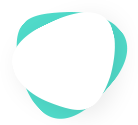
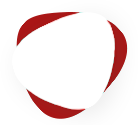
color changes

Changed region(s): [[0.7536, 0.168, 0.9275, 0.744], [0.1159, 0.096, 0.5797, 0.384], [0.1739, 0.696, 0.6377, 0.96]]

diff --git a/index.html b/index.html
@@ -212,10 +212,10 @@
         color: #ffffff;
       }
       #iguru_infobox_6041219c5987f .infobox_icon {
-        color: #00bda6;
+        color: #be1e2d;
       }
       #iguru_infobox_6041219c5987f .infobox_wrapper:hover .infobox_icon {
-        color: #ff6d34;
+        color: #be1e2d;
       }
       #iguru_infobox_6041219c5987f .infobox_button {
         color: #ffffff;
@@ -254,10 +254,10 @@
         color: #ffffff;
       }
       #iguru_infobox_6041219c66251 .infobox_icon {
-        color: #00bda6;
+        color: #be1e2d;
       }
       #iguru_infobox_6041219c66251 .infobox_wrapper:hover .infobox_icon {
-        color: #ff6d34;
+        color: #be1e2d;
       }
       #iguru_infobox_6041219c66251 .infobox_button {
         color: #ffffff;
@@ -1350,7 +1350,7 @@
       ul.wp-block-categories.wp-block-categories-list li a:hover,
       ul.wp-block-categories.wp-block-categories-list li a:hover + .post_count,
       ul.wp-block-latest-posts li a:hover {
-        color: #00bda6;
+        color: #be1e2d;
       }
       #learn-press-course-curriculum.course-curriculum
         ul.curriculum-sections
@@ -1567,7 +1567,7 @@
         .curriculum-sections
         .section-content
         .course-item:before {
-        background-color: #00bda6;
+        background-color: #be1e2d;
       }
       .wgl-theme-header .log-in.learnpress .log-link:hover,
       .wgl-theme-header
@@ -1751,7 +1751,7 @@
       .widget.iguru_widget.iguru_banner-widget
         .banner-widget_button.button-read-more,
       .content-item-summary .quiz-result .result-grade .result-achieved {
-        border-color: #00bda6;
+        border-color: #be1e2d;
       }
       .theme_color_shadow {
         box-shadow: 5px 6px 25px 0px rgba(0, 189, 166, 0.08);
@@ -2411,7 +2411,7 @@
         margin-top: -40px !important;
       }
       .vc_custom_1569853136373 {
-        background-color: #00bda6 !important;
+        background-color: #be1e2d !important;
       }
       .vc_custom_1569856727231 {
         background-color: #ff6d34 !important;
@@ -2441,7 +2441,7 @@
       .vc_custom_1569929330325 {
         margin-top: -115px !important;
         padding-top: 40px !important;
-        background-color: #ff6d34 !important;
+        background-color: #d1d2d3 !important;
         border-radius: 10px !important;
       }
       .vc_custom_1571735404807 {
@@ -2746,7 +2746,8 @@
                       <a href="./index.html">
                         <img
                           class="default_logo"
-                          src="./wp-content/uploads/2019/10/Dark-Logo.svg"
+                          width = 35%;
+                          src="./wp-content/uploads/2019/10/Dark-Logo.png"
                           alt=""
                         />
                       </a>
@@ -2856,7 +2857,7 @@
                       <a href="./index.html">
                         <img
                           class="default_logo"
-                          src="./wp-content/uploads/2019/10/Logo.svg"
+                          src="./wp-content/uploads/2019/10/Logo.png"
                           alt=""
                         />
                       </a>
@@ -2944,7 +2945,7 @@
                             data-anim="ei:d;eo:d;s:290;r:0;t:fade;sl:d;"
                           >
                             <img
-                              src="./wp-content/uploads/2019/10/HeroImg v2.jpg"
+                              src="./wp-content/uploads/2019/10/home_slider_bg-1536x728.jpg"
                               title="home_slider_bg"
                               width="1920"
                               height="910"
@@ -3090,7 +3091,7 @@
                               data-frame_1="x:0,0px,0px,0px;y:0,0px,0px,0px;st:550;sp:1000;sR:550;"
                               data-frame_999="o:0;tp:600;st:w;sR:7450;"
                               style="z-index: 16; font-family: Muli;"
-                              >Let's Do <span style="color: #FF6D34;">IT</span> Free Prep BootCamp </rs-layer>
+                              >Let's Do <span style="color: #be1e2d;">IT</span> Free Prep BootCamp </rs-layer>
 							<!--
 
 							--><rs-layer
@@ -3113,7 +3114,7 @@
 
                               
 							-->
-              <a href="./pdf/BlankslateSummery.pdf" target="_blank">
+              <a href="./pages/registration.html">
               <rs-layer
                               id="slider-1-slide-1-layer-13"
                               class="rev-btn"
@@ -3123,14 +3124,14 @@
                               data-xy="xo:15px;y:t,m,m,m;yo:624px,157px,180px,131px;"
                               data-text="s:16,18,18,18;l:17;fw:700;a:inherit;"
                               data-padding="t:18,20,20,20;r:29,33,33,33;b:17,19,19,19;l:29,33,33,33;"
-                              data-border="bos:solid;boc:#00bda6;bow:2,2,2,2;bor:5px,5px,5px,5px;"
+                              data-border="bos:solid;boc:#be1e2d;bow:2,2,2,2;bor:5px,5px,5px,5px;"
                               data-frame_0="tp:600;"
                               data-frame_1="tp:600;st:1550;sp:1100;sR:1550;"
                               data-frame_999="o:0;tp:600;st:w;sR:6350;"
-                              data-frame_hover="bgc:rgba(255,255,255,0);boc:#00bda6;bor:5px,5px,5px,5px;bos:solid;bow:2,2,2,2;oX:50;oY:50;"
+                              data-frame_hover="bgc:rgba(255,255,255,0);boc:#be1e2d;bor:5px,5px,5px,5px;bos:solid;bow:2,2,2,2;oX:50;oY:50;"
                               style="
                                 z-index: 18;
-                                background-color: #00bda6;
+                                background-color: #be1e2d;
                                 font-family: Muli;
                                 cursor: pointer;
                                 outline: none;
@@ -3140,7 +3141,7 @@
                                 -moz-box-sizing: border-box;
                                 -webkit-box-sizing: border-box;
                               "
-                              >  View Courses </rs-layer
+                              >  Register Now </rs-layer
                             ></a>
                             <!--
 
@@ -3249,7 +3250,7 @@
                               data-frame_0="y:-50,-42,-31,-19;"
                               data-frame_1="st:50;sp:1100;sR:50;"
                               data-frame_999="o:0;st:w;sR:7850;"
-                              style="z-index: 13; background-color: #ff6d34"
+                              style="z-index: 13; background-color: #be1e2d"
                             >
                             </rs-layer
                             ><!--
@@ -3265,7 +3266,7 @@
                               data-frame_0="y:50,42,31,19;"
                               data-frame_1="st:550;sp:1000;sR:550;"
                               data-frame_999="o:0;st:w;sR:7450;"
-                              style="z-index: 15; background-color: #ff6d34; left: 20px !important;"
+                              style="z-index: 15; background-color: #be1e2d; left: 20px !important;"
                             >
                             </rs-layer
                             ><!--
@@ -3505,9 +3506,9 @@
                                     style="
                                       display: inline-block;
                                       line-height: 1.25;
-                                      color: #ffffff;
+                                      color: #000;
                                       margin: 0 47px;
-                                      border-left: 3px solid #ffbca2;
+                                      border-left: 3px solid #be1e2d;
                                       padding-left: 15px;
                                     "
                                     >Contact Form</span

diff --git a/wp-content/themes/iguru/css/main.css b/wp-content/themes/iguru/css/main.css
@@ -287,7 +287,7 @@ textarea {
   height: 56px;
   max-width: 100%;
   margin: 0;
-  border: unset;
+  border: 0.7px solid #000;
   border-radius: 5px;
   padding: 10px 20px;
   font-family: inherit;
